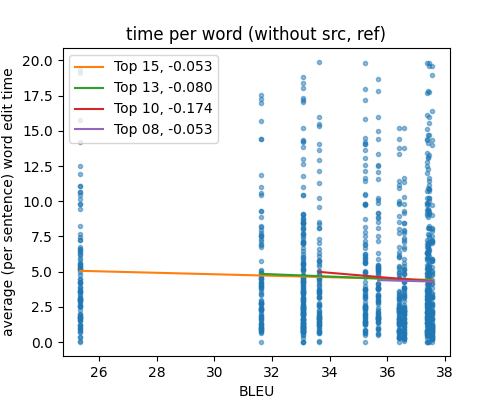
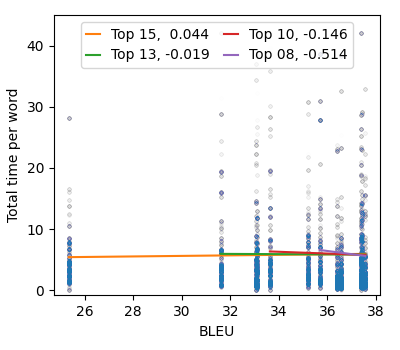
paper writing, 3.2

diff --git a/src/processing/exp1_top.py b/src/processing/exp1_top.py
@@ -8,24 +8,15 @@ from utils import MT_BLEU, MAX_WORD_TIME, MAX_SENT_TIME
 
 parser = argparse.ArgumentParser()
 parser.add_argument('-m', '--mt-only', action='store_true')
-parser.add_argument('-a', '--aggregate-documents', action='store_true')
 args = parser.parse_args()
 
 data = load_mx()
 SKIP_SRC_REF = args.mt_only
-AGGREGATE_DOCUMENTS = args.aggregate_documents
 # compute per-model data
 mt_times = {k: [] for k in sorted(MT_BLEU.keys(), key=lambda x: MT_BLEU[x][0])}
 for doc in data:
-    if AGGREGATE_DOCUMENTS:
-        # TODO: this is incorrect
-        doc_time_avg = np.average(
-            [x.edit_time_word for x in doc.lines]
-        )
-        mt_times[doc.mt_name].append(doc_time_avg)
-    else:
-        # microaverage
-        mt_times[doc.mt_name] += [min(MAX_WORD_TIME, x.edit_time_word) for x in doc.lines for _ in x.source.split()]
+    # microaverage
+    mt_times[doc.mt_name] += [x.edit_time_word - x.think_time_word + min(MAX_WORD_TIME, x.think_time_word) for x in doc.lines for _ in x.source.split()]
 
 def top_n(n, points=False):
     # actual value plotting
@@ -44,21 +35,23 @@ def top_n(n, points=False):
     poly1d_fn = np.poly1d(coef)
 
     if points:
-        plt.plot(xval, yval, '.', alpha=0.005, markersize=5)
+        plt.plot(xval, yval, '.', alpha=0.005, markersize=6)
     plt.plot(xval, poly1d_fn(xval), label=f'Top {n:02}, {coef[0]:>6.3f}')
 
 # misc. plot parameters
-plt.figure(figsize=(5, 4))
+plt.figure(figsize=(4, 3.5))
 top_n(15, points=True)
 top_n(13)
 top_n(10)
 top_n(8)
-plt.legend()
-plt.title(
-    ('time per word ') +
-    ('(without src, ref)' if SKIP_SRC_REF else '(with src, ref)')
-)
+plt.ylim(-0.8, 45)
+
+plt.legend(ncol=2,handlelength=1, columnspacing=1, loc="upper center")
+# plt.title(
+#     ('Total time per word ') +
+#     ('(without Reference and Source)' if SKIP_SRC_REF else '(with Reference and Source)')
+# )
 plt.xlabel('BLEU')
-perwhat = 'document' if AGGREGATE_DOCUMENTS else 'sentence'
-plt.ylabel(f'average (per {perwhat}) word edit time')
+plt.ylabel(f'Total time per word')
+plt.tight_layout(rect=(-0.02, -0.01, 1, 1))
 plt.show()

diff --git a/src/processing/txp1_total.py b/src/processing/txp1_total.py
@@ -3,7 +3,7 @@
 from load import *
 import numpy as np
 import matplotlib.pyplot as plt
-from utils import MT_BLEU, MAX_WORD_TIME, pretty_mt_name_2
+from utils import MT_BLEU, MAX_WORD_TIME, pretty_mt_name_2, confidence_change
 
 data = load_mx()
 # compute per-model data
@@ -11,12 +11,12 @@ all_times = {k: [] for k in sorted(MT_BLEU.keys(), key=lambda x: MT_BLEU[x][0])}
 think_times = {k: [] for k in sorted(MT_BLEU.keys(), key=lambda x: MT_BLEU[x][0])}
 for doc in data:
         # microaverage
-        all_times[doc.mt_name] += [x.edit_time_word - x.think_time_word +min(MAX_WORD_TIME, x.edit_time_word) for x in doc.lines for _ in x.source.split()]
+        all_times[doc.mt_name] += [x.edit_time_word - x.think_time_word + min(MAX_WORD_TIME, x.edit_time_word) for x in doc.lines for _ in x.source.split()]
         think_times[doc.mt_name] += [min(MAX_WORD_TIME, x.edit_time_word) for x in doc.lines for _ in x.source.split()]
 
 # print model averages
 print('\n'.join([
-    f'{pretty_mt_name_2(x_all[0]):>10} & {np.average(x_all[1]):6.2f}s & {np.average(x_think[1]):6.2f}s \\\\'
+    f'{pretty_mt_name_2(x_all[0]):>10} & {np.average(x_all[1]):6.2f}s$\\pm${confidence_change(x_all[1]):.2f}s & {np.average(x_think[1]):6.2f}s$\\pm${confidence_change(x_think[1]):.2f}s \\\\'
     for (x_all, x_think)
     in sorted(zip(all_times.items(), think_times.items()), key=lambda x: np.average(x[0][1]))
 ]))

diff --git a/src/processing/utils.py b/src/processing/utils.py
@@ -42,15 +42,14 @@ def pretty_mt_name_2(mt):
     return mt.upper()
 
 
-MAX_WORD_TIME = 20
+MAX_WORD_TIME = 10
 MAX_SENT_TIME = MAX_WORD_TIME*20
 
 def f1(x, y):
     return 0 if (x+y) == 0 else 2*x*y/(x+y)
 
-
 def confidence_change(data, confidence=0.95):
-  dist = NormalDist.from_samples(data)
-  z = NormalDist().inv_cdf((1 + confidence) / 2.)
-  h = dist.stdev * z / ((len(data) - 1) ** .5)
-  return h
+    dist = NormalDist.from_samples(data)
+    z = NormalDist().inv_cdf((1 + confidence) / 2.)
+    h = dist.stdev * z / ((len(data) - 1) ** .5)
+    return h

diff --git a/src/processing/exp5_chrf.py b/src/processing/exp5_chrf.py
@@ -44,7 +44,7 @@ def top_n(n, points=False):
     poly1d_fn = np.poly1d(coef)
 
     if points:
-        plt.plot(xval, yval, '.', alpha=0.2)
+        plt.plot(xval, yval, '.', alpha=0.2, markersize=6)
     plt.plot(xval, poly1d_fn(xval), label=f'Top {n:02}: {coef[0]:>6.3f}')
 
 # misc. plot parameters
@@ -53,7 +53,7 @@ top_n(15, points=True)
 top_n(13)
 top_n(10)
 top_n(8)
-plt.legend(ncol=2,handlelength=1, columnspacing=1)
+plt.legend(ncol=2,handlelength=1, columnspacing=1, loc="upper center")
 plt.xlabel('BLEU')
 plt.ylabel('ChrF6')
 plt.ylim(0, 1.28)

diff --git a/src/processing/exp3_docs.py b/src/processing/exp3_docs.py
@@ -11,7 +11,7 @@ data = load_mx()
 # compute per-doc data
 doc_times = defaultdict(lambda: [])
 for doc in data:
-    doc_times[doc.doc_name] += [x.edit_time_word for x in doc.lines if x.edit_time_word <= MAX_WORD_TIME]
+    doc_times[doc.doc_name] += [x.edit_time_word - x.think_time_word + min(MAX_WORD_TIME, x.think_time_word) for x in doc.lines]
 
 def top_all():
     # actual value plotting

diff --git a/src/processing/exp4_user.py b/src/processing/exp4_user.py
@@ -11,7 +11,7 @@ data = load_mx()
 # compute per-user data
 user_times = defaultdict(lambda: [])
 for doc in data:
-    user_times[doc.user_a] += [x.edit_time_word for x in doc.lines if x.edit_time_word <= MAX_WORD_TIME]
+    user_times[doc.user_a] += [x.edit_time_word - x.think_time_word + min(MAX_WORD_TIME, x.think_time_word) for x in doc.lines]
 
 def top_all():
     # actual value plotting
